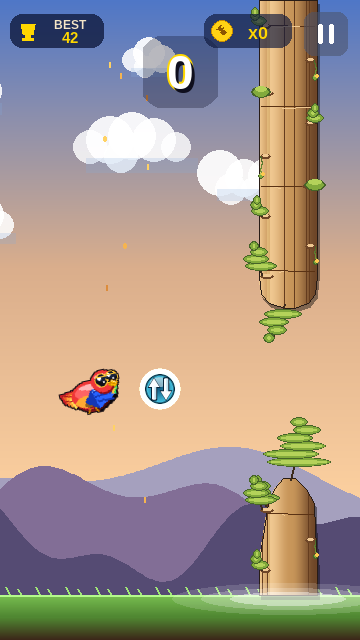
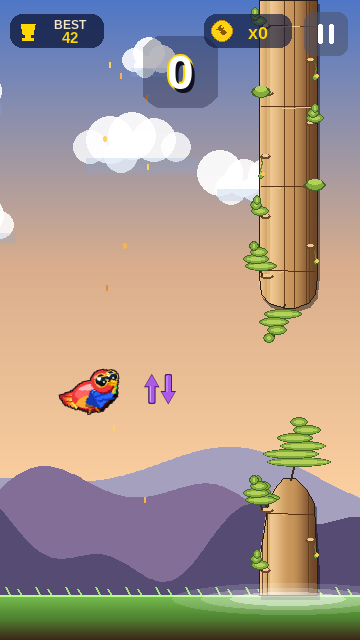
Reverse power-up: bare purple arrows, no disc or aura
The icon is now just two purple arrows (up + down) on a fully
transparent background — the disc, glow, and specular highlight are
gone. Activation float-text and pickup-burst particle colors switch
from cyan to matching purple so the visual language is consistent.

(cherry picked from commit 5529bfda032cf5d4d7e53f8a03824f9f2dff4fcf)

Changed region(s): [[0.3667, 0.5625, 0.5194, 0.6562]]

diff --git a/game/entities.py b/game/entities.py
@@ -315,112 +315,72 @@ class Coin:
 
 # ── PowerUp ──────────────────────────────────────────────────────────────────
 
-# Lazy-initialized high-resolution cache for the "reverse" power-up icon.
-# Rendered once at 4x super-sampling, smoothscaled down to give the disc and
-# arrows clean anti-aliased edges. Reused for both the in-world pickup and
+# Lazy-initialized high-resolution cache for the "reverse" power-up icon —
+# two purple arrows (up on the left, down on the right) on a fully transparent
+# background. Rendered once at 4x super-sampling and smoothscaled down so the
+# arrow edges read clean at any size. Reused for both the in-world pickup and
 # the HUD active-buff badge.
 _REVERSE_ICON_CACHE: "dict[int, pygame.Surface]" = {}
-_REVERSE_AURA_CACHE: "pygame.Surface | None" = None
 
 
 def _build_reverse_icon(out_diameter: int) -> pygame.Surface:
-    """Glossy cyan disc with two arrows (up on the left, down on the right).
-    Drawn at 4x and downsampled for crisp edges."""
     SS = 4
     size = out_diameter * SS
     surf = pygame.Surface((size, size), pygame.SRCALPHA)
     cx = cy = size // 2
-    R = size // 2 - 2 * SS  # disc radius (leaves room for outer glow)
+    # Use a "radius" of half the surface (minus a tiny inset so the arrow tips
+    # don't clip the edge). This sets the arrow column geometry, not a disc.
+    R = size // 2 - SS
 
-    # Outer glow halo — additive-friendly faint rings.
-    for i in range(6, 0, -1):
-        a = 14 - i * 2
-        pygame.draw.circle(surf, (110, 230, 245, max(0, a)),
-                           (cx, cy), R + i * SS)
-    # Outer dark teal rim
-    pygame.draw.circle(surf, (8, 38, 58), (cx, cy), R + SS)
-    # Bright cyan ring just inside the rim
-    pygame.draw.circle(surf, (90, 220, 240), (cx, cy), R)
-
-    # Body radial gradient: bright top-left → deep teal bottom-right.
-    # Approximate with stacked offset circles of decreasing radius.
-    grad_steps = 22
-    for i in range(grad_steps):
-        t = i / (grad_steps - 1)
-        rr = int(R * (1.0 - t * 0.95))
-        if rr < 2:
-            break
-        col = (
-            int(70 + (10 - 70) * t),
-            int(195 + (75 - 195) * t),
-            int(225 + (115 - 225) * t),
-        )
-        # Offset toward bottom-right so the gradient reads as lit-from-top-left.
-        ox = int(R * 0.12 * t)
-        oy = int(R * 0.18 * t)
-        pygame.draw.circle(surf, col, (cx - ox, cy - oy), rr)
-
-    # Inner darker groove just inside the rim — gives the disc a beveled look.
-    pygame.draw.circle(surf, (10, 55, 80), (cx, cy), R - 1, max(2, SS // 2))
-
-    # Specular crescent on the upper portion (glossy highlight).
-    hl = pygame.Surface((size, size), pygame.SRCALPHA)
-    hl_rect = pygame.Rect(cx - int(R * 0.7), cy - int(R * 0.85),
-                          int(R * 1.4), int(R * 0.7))
-    pygame.draw.ellipse(hl, (255, 255, 255, 130), hl_rect)
-    # Mask the highlight to the disc shape so it never spills past the rim.
-    mask = pygame.Surface((size, size), pygame.SRCALPHA)
-    pygame.draw.circle(mask, (255, 255, 255, 255), (cx, cy), R - SS)
-    hl.blit(mask, (0, 0), special_flags=pygame.BLEND_RGBA_MULT)
-    surf.blit(hl, (0, 0))
-
-    # ── Arrows ────────────────────────────────────────────────────────────
-    arrow_fill    = (250, 253, 255)
-    arrow_outline = (8, 35, 55)
-    arrow_shadow  = (175, 220, 240)
+    purple_core    = (170, 90, 230)
+    purple_outline = (75, 25, 120)
+    purple_hl      = (215, 165, 250)
 
     # Geometry in big-surface units.
-    pad = R // 6
-    top_y = cy - R + pad + SS
-    bot_y = cy + R - pad - SS
+    top_y  = cy - R + SS
+    bot_y  = cy + R - SS
     head_h = (bot_y - top_y) * 4 // 10
-    shaft_w = R * 5 // 16
-    head_w = shaft_w * 5 // 2
+    shaft_w = R * 5 // 14
+    head_w  = shaft_w * 5 // 2
 
-    lx = cx - R // 2 + R // 12   # left (up-arrow) column
-    rx = cx + R // 2 - R // 12   # right (down-arrow) column
+    lx = cx - R // 2 - R // 16   # left (up-arrow) column
+    rx = cx + R // 2 + R // 16   # right (down-arrow) column
 
-    def _arrow(surf, col_x, *, point_up: bool):
+    def _arrow(col_x: int, *, point_up: bool):
         if point_up:
-            head_top = top_y
-            head_bot = top_y + head_h
+            head_top  = top_y
+            head_bot  = top_y + head_h
             shaft_top = head_bot - SS
             shaft_bot = bot_y
         else:
-            head_bot = bot_y
-            head_top = bot_y - head_h
+            head_top  = bot_y - head_h
+            head_bot  = bot_y
             shaft_top = top_y
             shaft_bot = head_top + SS
-        # Outline (slightly larger silhouette)
-        ow = SS  # outline thickness
-        head_pts_out = [
-            (col_x - head_w // 2 - ow, head_bot + (ow if point_up else -ow)),
-            (col_x + head_w // 2 + ow, head_bot + (ow if point_up else -ow)),
-            (col_x, (head_top - ow) if point_up else (head_bot + ow)),
-        ]
-        if not point_up:
-            head_pts_out = [
+
+        ow = SS  # outline thickness in big-surface units
+
+        # Dark outline silhouette, drawn larger.
+        if point_up:
+            head_out = [
+                (col_x - head_w // 2 - ow, head_bot + ow),
+                (col_x + head_w // 2 + ow, head_bot + ow),
+                (col_x, head_top - ow),
+            ]
+        else:
+            head_out = [
                 (col_x - head_w // 2 - ow, head_top - ow),
                 (col_x + head_w // 2 + ow, head_top - ow),
                 (col_x, head_bot + ow),
             ]
-        pygame.draw.polygon(surf, arrow_outline, head_pts_out)
-        pygame.draw.rect(surf, arrow_outline,
+        pygame.draw.polygon(surf, purple_outline, head_out)
+        pygame.draw.rect(surf, purple_outline,
                          (col_x - shaft_w // 2 - ow, shaft_top - ow,
                           shaft_w + ow * 2,
                           shaft_bot - shaft_top + ow * 2),
                          border_radius=shaft_w // 3)
-        # Fill
+
+        # Purple fill.
         if point_up:
             head_pts = [
                 (col_x - head_w // 2, head_bot),
@@ -433,19 +393,21 @@ def _build_reverse_icon(out_diameter: int) -> pygame.Surface:
                 (col_x + head_w // 2, head_top),
                 (col_x, head_bot),
             ]
-        pygame.draw.polygon(surf, arrow_fill, head_pts)
-        pygame.draw.rect(surf, arrow_fill,
+        pygame.draw.polygon(surf, purple_core, head_pts)
+        pygame.draw.rect(surf, purple_core,
                          (col_x - shaft_w // 2, shaft_top,
                           shaft_w, shaft_bot - shaft_top),
                          border_radius=shaft_w // 3)
-        # Right-edge gentle shadow on the shaft so the arrow reads as 3-D.
-        pygame.draw.rect(surf, arrow_shadow,
-                         (col_x + shaft_w // 6, shaft_top + ow,
-                          shaft_w // 3, shaft_bot - shaft_top - ow * 2),
-                         border_radius=shaft_w // 4)
 
-    _arrow(surf, lx, point_up=True)
-    _arrow(surf, rx, point_up=False)
+        # Subtle highlight stripe on the left edge of the shaft so the arrow
+        # has a hint of dimension without a full background.
+        pygame.draw.rect(surf, purple_hl,
+                         (col_x - shaft_w // 3, shaft_top + ow,
+                          max(2, shaft_w // 5), shaft_bot - shaft_top - ow * 2),
+                         border_radius=shaft_w // 5)
+
+    _arrow(lx, point_up=True)
+    _arrow(rx, point_up=False)
 
     return pygame.transform.smoothscale(surf, (out_diameter, out_diameter))
 
@@ -456,23 +418,6 @@ def _get_reverse_icon(diameter: int = (MUSHROOM_R + 2) * 2) -> pygame.Surface:
         cached = _build_reverse_icon(diameter)
         _REVERSE_ICON_CACHE[diameter] = cached
     return cached
-
-
-def _get_reverse_aura() -> pygame.Surface:
-    global _REVERSE_AURA_CACHE
-    if _REVERSE_AURA_CACHE is not None:
-        return _REVERSE_AURA_CACHE
-    R = MUSHROOM_R
-    SS = 4
-    size = (R * 3) * SS
-    big = pygame.Surface((size, size), pygame.SRCALPHA)
-    bcx = bcy = size // 2
-    for i, (rr_factor, alpha) in enumerate((
-            (1.45, 22), (1.30, 38), (1.15, 55), (1.00, 72))):
-        pygame.draw.circle(big, (90, 230, 245, alpha),
-                           (bcx, bcy), int(R * rr_factor * SS))
-    _REVERSE_AURA_CACHE = pygame.transform.smoothscale(big, (R * 3, R * 3))
-    return _REVERSE_AURA_CACHE
 
 
 class PowerUp:
@@ -819,10 +764,6 @@ class PowerUp:
         cx = int(self.x)
         cy = int(self.y)
         icon = _get_reverse_icon()
-        # Soft cyan aura behind the icon (additive)
-        aura = _get_reverse_aura()
-        surf.blit(aura, (cx - aura.get_width() // 2, cy - aura.get_height() // 2),
-                  special_flags=pygame.BLEND_ADD)
         surf.blit(icon, (cx - icon.get_width() // 2, cy - icon.get_height() // 2))
 
 

diff --git a/game/world.py b/game/world.py
@@ -753,9 +753,9 @@ class World:
         self.shake_mag = max(self.shake_mag, 2.5)
         self.shake_t = max(self.shake_t, 0.25)
         audio.play_slowmo()
-        self._pickup_burst(m, ((80, 220, 235), (40, 160, 200), WHITE, UI_CREAM))
+        self._pickup_burst(m, ((170, 90, 230), (110, 50, 180), (215, 165, 250), WHITE))
         self.float_texts.append(FloatText(
-            "FLIP!", m.x, m.y - 22, (120, 230, 240), size=24, life=1.3, vy=-30,
+            "FLIP!", m.x, m.y - 22, (190, 130, 245), size=24, life=1.3, vy=-30,
         ))
 
     # ── utility ──────────────────────────────────────────────────────────────
